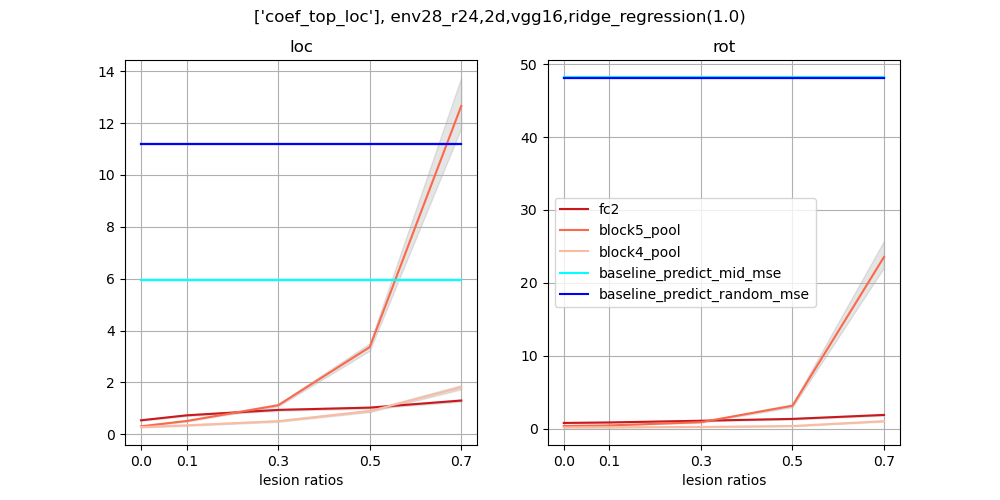
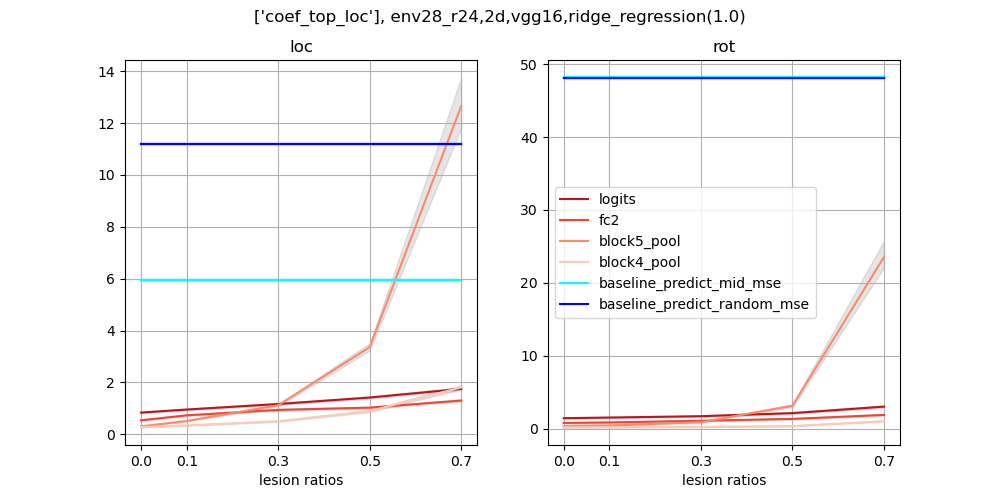
update figs: lesion by coef loc top v random consistent

Changed region(s): [[0.558, 0.39, 0.806, 0.63], [0.558, 0.81, 0.899, 0.87], [0.124, 0.78, 0.465, 0.87]]

diff --git a/location_n_rotation_prediction.py b/location_n_rotation_prediction.py
@@ -1297,6 +1297,7 @@ def cross_dimension_analysis(
                                     # for non-baseline layer performance,
                                     # we label each layer and use layer-specific color.
                                     label = output_layer
+                                    if "predictions" in label: label = "logits"
                                     color = data.load_envs_dict(model_name, envs)[
                                         f'{envs[0]}_{movement_mode}_{model_name}_{output_layer}']['color']
                                 
@@ -1341,23 +1342,23 @@ if __name__ == '__main__':
     CPU_NUM_PROCESSES = 5
     envs = ['env28_r24']
     movement_modes = ['2d']
-    sampling_rates = [0.1, 0.3, 0.5]
+    sampling_rates = [0.3]
     random_seeds = [42]
     model_names = ['vgg16']
     moving_trajectories = ['uniform']
     decoding_model_choices = [{'name': 'ridge_regression', 'hparams': 1.0}]
     experiment = 'loc_n_rot'
-    reference_experiment = 'unit_chart'   # for lesioning, or 'unit_chart'
-    metric = 'borderness'
-    thr = '0'
-    rank = 'top'
-    target = ''
+    reference_experiment = 'loc_n_rot'   #'loc_n_rot|border_dist|unit_chart'
+    metric = 'coef'
+    thr = 'thr'                            # if metric=='coef', thr='thr'
+    rank = 'random'
+    target = '_loc'                          # if metric=='coef', target='_loc|_rot
     feature_selections = [
         'l2',
-        # f'l2+lesion_{metric}_{thr}_{rank}_0.1{target}',
-        # f'l2+lesion_{metric}_{thr}_{rank}_0.3{target}',
-        # f'l2+lesion_{metric}_{thr}_{rank}_0.5{target}',
-        # f'l2+lesion_{metric}_{thr}_{rank}_0.7{target}',
+        f'l2+lesion_{metric}_{thr}_{rank}_0.1{target}',
+        f'l2+lesion_{metric}_{thr}_{rank}_0.3{target}',
+        f'l2+lesion_{metric}_{thr}_{rank}_0.5{target}',
+        f'l2+lesion_{metric}_{thr}_{rank}_0.7{target}',
     ]
     # =================================================================== #
 
@@ -1376,7 +1377,8 @@ if __name__ == '__main__':
     )
 
     cross_dimension_analysis(
-        analysis='decoding_across_sampling_rates_n_layers',
+        # analysis='decoding_across_sampling_rates_n_layers',
+        analysis='decoding_across_lesion_ratios_n_layers',
         envs=envs,
         movement_modes=movement_modes,
         model_names=model_names,
